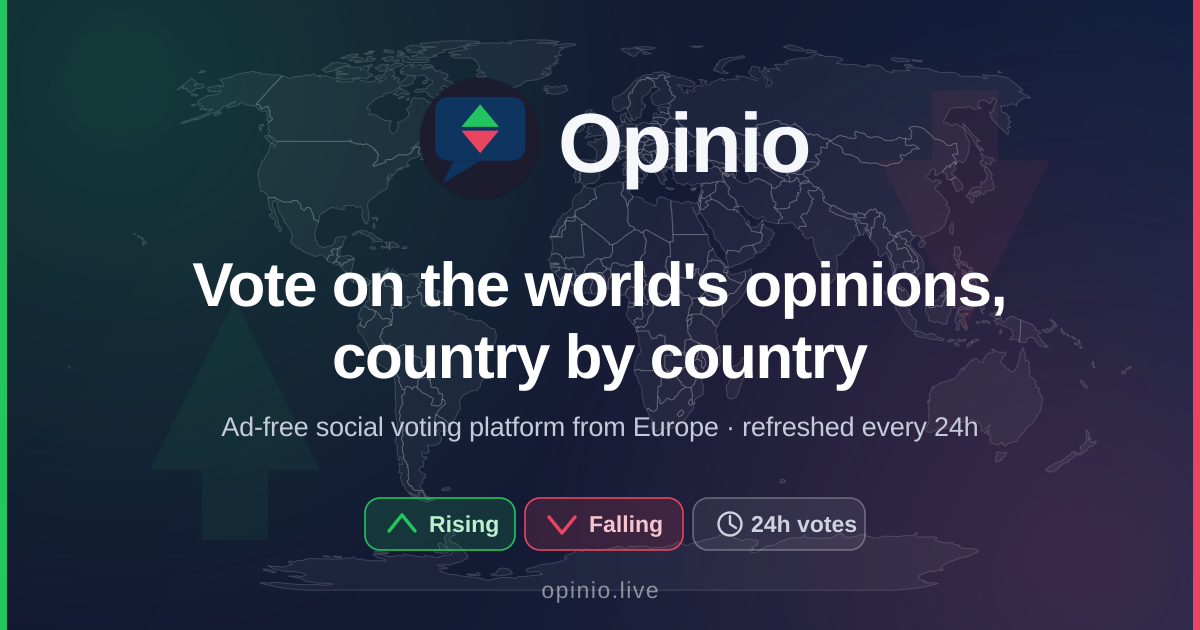
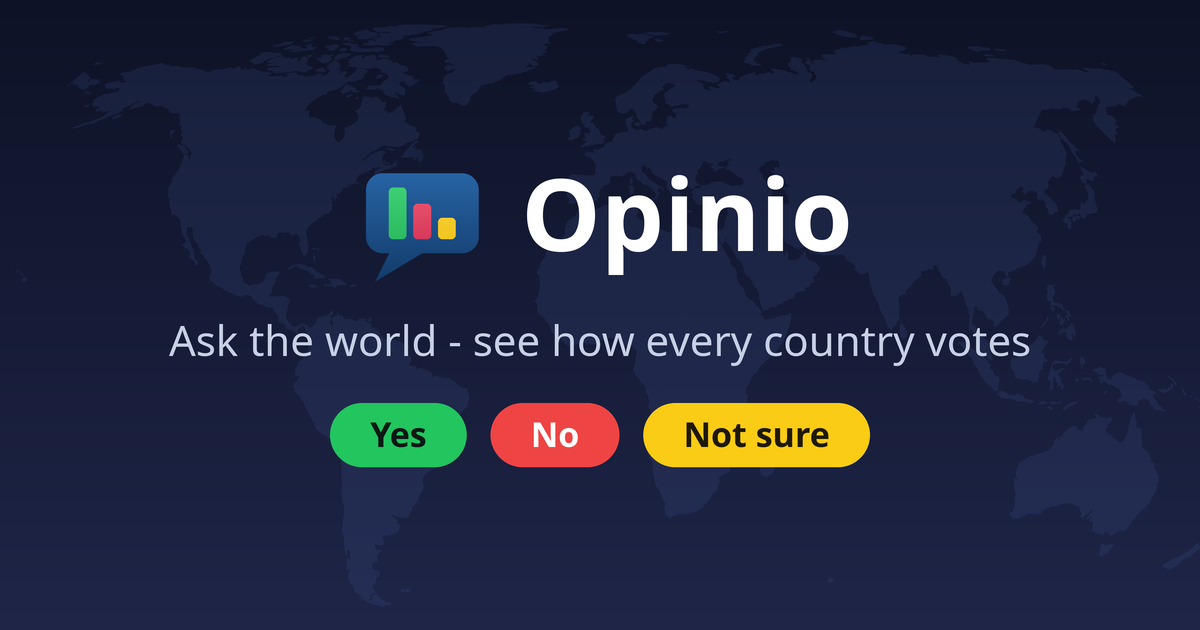
Replace the old OG link preview with the polls design
The old og-image.png still showed the like/dislike era (triangles logo,
24h refresh, rising/falling). The new art is the Facebook cover design
at 1200x630, published as og-image-v3.png because public/ is cached
for a year; the old name carries the same art for anything still
pointing at it.

diff --git a/index.html b/index.html
@@ -45,7 +45,7 @@
       property="og:description"
       content="Ask the world anything and vote on polls in your own language. See how people in every country answered, live on the world map. Ad-free, made in Europe."
     />
-    <meta property="og:image" content="https://opinio.live/og-image.png" />
+    <meta property="og:image" content="https://opinio.live/og-image-v3.png" />
     <meta property="og:image:type" content="image/png" />
     <meta property="og:image:width" content="1200" />
     <meta property="og:image:height" content="630" />
@@ -57,7 +57,7 @@
       name="twitter:description"
       content="Ask the world anything and vote on polls in your own language. See how people in every country answered, live on the world map. Ad-free, made in Europe."
     />
-    <meta name="twitter:image" content="https://opinio.live/og-image.png" />
+    <meta name="twitter:image" content="https://opinio.live/og-image-v3.png" />
     <meta name="twitter:image:alt" content="Opinio - ask the world, see how every country votes" />
 
     <script type="application/ld+json">

diff --git a/vite.config.ts b/vite.config.ts
@@ -79,7 +79,7 @@ export default defineConfig({
         // Precache the app shell only. The map data and the social OG image are not
         // needed inside the standalone app, so keep them out of the SW cache.
         globPatterns: ['**/*.{js,css,html,svg,png,ico,woff2}'],
-        globIgnores: ['**/topojson/**', 'og-image.png', 'og-image.svg'],
+        globIgnores: ['**/topojson/**', 'og-image.png', 'og-image-v3.png', 'og-image.svg'],
         navigateFallback: '/index.html',
         navigateFallbackDenylist: [/^\/api\//, /^\/\.well-known\//, /^\/sitemap\.xml$/, /^\/robots\.txt$/],
         cleanupOutdatedCaches: true,

diff --git a/cloudflare-worker/src/index.js b/cloudflare-worker/src/index.js
@@ -2,7 +2,7 @@ import { pollCountryMeta } from './pollCountryMeta.js';
 
 const API_BASE = 'https://api.opinio.live';
 const SITE_BASE = 'https://opinio.live';
-const DEFAULT_OG_IMAGE = `${SITE_BASE}/og-image.png`;
+const DEFAULT_OG_IMAGE = `${SITE_BASE}/og-image-v3.png`;
 const ANON_OG_IMAGE = `${SITE_BASE}/icons/anonymous-mask.png`;
 const UUID_RE = /^[0-9a-f]{8}-[0-9a-f]{4}-[0-9a-f]{4}-[0-9a-f]{4}-[0-9a-f]{12}$/i;
 const PROFILE_PATH_RE = /^\/p\/([^\/]+)\/?$/;
